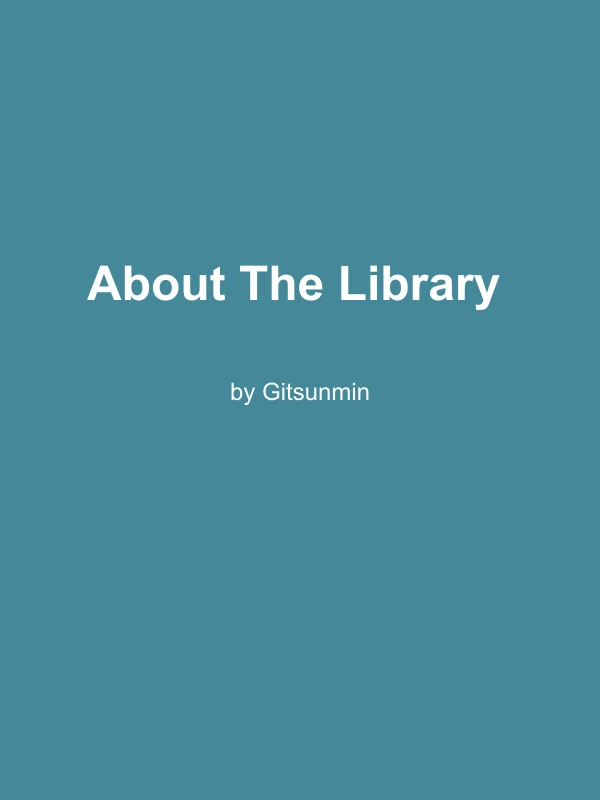
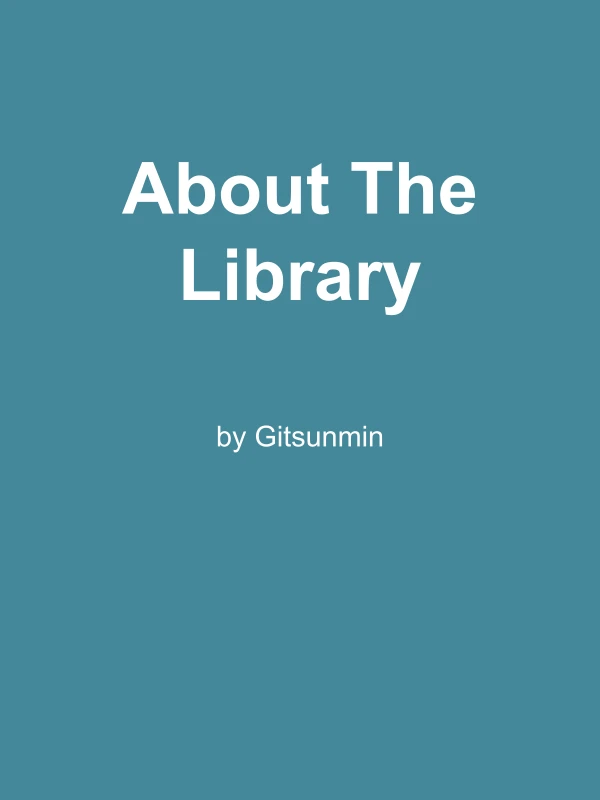
⬆ update book cover generation script and assets

diff --git a/.scripts/generate-book-cover.ts b/.scripts/generate-book-cover.ts
@@ -51,6 +51,23 @@ function generateBarcode(ctx: CanvasRenderingContext2D, content: string, x: numb
     ctx.fillText(content, x + width / 2, y + height + 15);
 }
 
+// 텍스트 크기를 동적으로 조절하는 함수
+function getOptimalFontSize(ctx: CanvasRenderingContext2D, text: string, maxWidth: number, maxFontSize: number): number {
+    let fontSize = maxFontSize;
+
+    while (fontSize > 20) { // 최소 폰트 크기 20px
+        ctx.font = `bold ${fontSize}px Arial`;
+        const metrics = ctx.measureText(text);
+
+        if (metrics.width <= maxWidth) {
+            return fontSize;
+        }
+        fontSize -= 2;
+    }
+
+    return 20; // 최소 폰트 크기 반환
+}
+
 // 전면 표지 생성
 function generateFrontCover(bookInfo: BookInfo): Buffer {
     const canvas = createCanvas(600, 800);
@@ -62,33 +79,56 @@ function generateFrontCover(bookInfo: BookInfo): Buffer {
 
     // 제목
     ctx.fillStyle = '#ffffff';
-    ctx.font = 'bold 48px Arial';
     ctx.textAlign = 'center';
 
-    // 제목이 길면 줄바꿈 처리
+    // 제목을 단어별로 분리
     const words = bookInfo.title.split(' ');
-    let line = '';
-    let y = 300;
-    const lineHeight = 60;
+    const maxWidth = 520; // 좌우 여백 40px씩
+    const lines: string[] = [];
 
-    for (let i = 0; i < words.length; i++) {
-        const testLine = `${line + words[i]} `;
-        const metrics = ctx.measureText(testLine);
-        const testWidth = metrics.width;
+    // 단어들을 라인별로 나누기
+    let currentLine = '';
+    for (const word of words) {
+        const testLine = currentLine ? `${currentLine} ${word}` : word;
 
-        if (testWidth > 500 && i > 0) {
-            ctx.fillText(line, 300, y);
-            line = `${words[i]} `;
-            y += lineHeight;
+        // 임시로 큰 폰트로 측정
+        ctx.font = 'bold 72px Arial';
+        const testWidth = ctx.measureText(testLine).width;
+
+        if (testWidth > maxWidth && currentLine) {
+            lines.push(currentLine);
+            currentLine = word;
         } else {
-            line = testLine;
+            currentLine = testLine;
         }
     }
-    ctx.fillText(line, 300, y);
+    if (currentLine) {
+        lines.push(currentLine);
+    }
+
+    // 각 라인에 대해 최적의 폰트 크기 찾기
+    let optimalFontSize = 72; // 시작 폰트 크기
+    for (const line of lines) {
+        const lineOptimalSize = getOptimalFontSize(ctx, line, maxWidth, 72);
+        optimalFontSize = Math.min(optimalFontSize, lineOptimalSize);
+    }
+
+    // 제목 그리기
+    ctx.font = `bold ${optimalFontSize}px Arial`;
+    const lineHeight = optimalFontSize * 1.2;
+    const totalHeight = lines.length * lineHeight;
+    const startY = 300 - (totalHeight / 2);
+
+    for (let i = 0; i < lines.length; i++) {
+        const y = startY + (i * lineHeight);
+        ctx.fillText(lines[i], 300, y);
+    }
 
     // 저자명
-    ctx.font = '24px Arial';
-    ctx.fillText(`by ${bookInfo.author}`, 300, y + 100);
+    const authorFontSize = Math.max(20, optimalFontSize * 0.4);
+    ctx.font = `${authorFontSize}px Arial`;
+    const authorY = startY + totalHeight + 60;
+    ctx.fillText(`by ${bookInfo.author}`, 300, authorY);
 
     return canvas.toBuffer('image/png');
 }
@@ -108,12 +148,24 @@ function generateSpineCover(bookInfo: BookInfo): Buffer {
     ctx.rotate(-Math.PI / 2);
 
     ctx.fillStyle = '#ffffff';
-    ctx.font = 'bold 20px Arial';
     ctx.textAlign = 'center';
-    ctx.fillText(bookInfo.title, 0, 0);
 
-    ctx.font = '14px Arial';
-    ctx.fillText(bookInfo.author, 0, 25);
+    // 제목 폰트 크기 동적 조절 (세로 길이 700px에 맞춤)
+    const titleMaxWidth = 700;
+    let titleFontSize = 60; // 시작 폰트 크기를 더 크게 조정
+
+    while (titleFontSize > 16) {
+        ctx.font = `bold ${titleFontSize}px Arial`;
+        const titleMetrics = ctx.measureText(bookInfo.title);
+
+        if (titleMetrics.width <= titleMaxWidth) {
+            break;
+        }
+        titleFontSize -= 2;
+    }
+
+    ctx.font = `bold ${titleFontSize}px Arial`;
+    ctx.fillText(bookInfo.title, 0, 0);
 
     ctx.restore();
 
